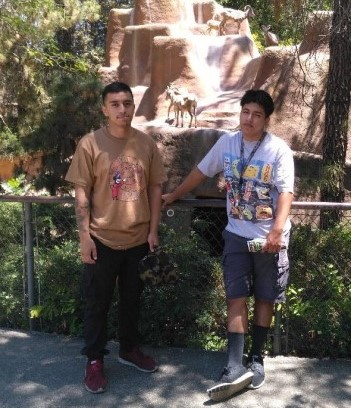
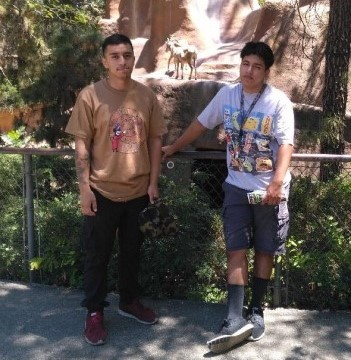
Adds image to last story slide and Adds bottom padding to work closerlook

diff --git a/portfolio/src/utils/StoryData.js b/portfolio/src/utils/StoryData.js
@@ -7,11 +7,11 @@ export const storyData = [
   {
     text:
       "At one point during this time, I ran into an ad on Instagram. I don't know why I decided to stop scrolling on my Instagram feed that day but the caption got my attention. The ad's caption read, 'Attend a school that invests in its students. Click here to learn more about our ISA.' I clicked... and once I was convinced... I talked it over with my brother. That weekend, we signed up.",
-    img: "https://i.postimg.cc/QCHMzqYD/broAndI.jpg",
+    img: "https://i.postimg.cc/rp1gd1Jq/broAndI.jpg",
   },
   {
     text:
       "Fast forward half a year, my brother and I have learned to work with existing websites and how to build them from scratch. We have covered topics like Responsive Design, Single Page Applications, Advanced State Management, etc. Now looking back at how far we have come during these 6 months, I am glad to say that I am happy with my career choice.",
-    img: "https://i.postimg.cc/hPHsdZXZ/Templatefor-Site.jpg",
+    img: "https://i.postimg.cc/s2x5pb5f/work-Files.jpg",
   },
 ];

diff --git a/portfolio/src/App.css b/portfolio/src/App.css
@@ -584,7 +584,7 @@ footer {
 .workPage {
   background: #b59a72;
   width: 100%;
-  padding: 2.5% 2%;
+  padding: 2.5% 2% 5% 2%;
 }
 
 .workPageCornerTag {
